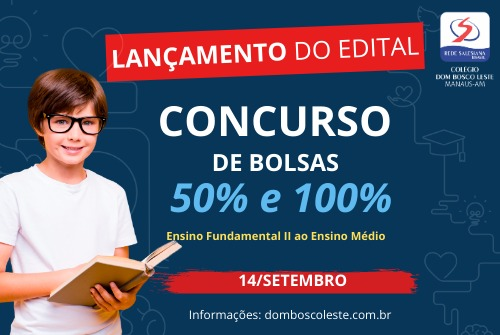
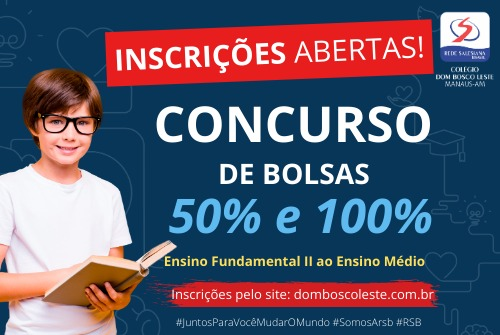
feat: update notice and homepage path

Changed region(s): [[0.0, 0.2985, 0.9, 1.0], [0.0, 0.0299, 0.87, 0.5672], [0.0, 0.6567, 0.12, 0.8358]]

diff --git a/src/pages/WIPNotice/WIPNotice.jsx b/src/pages/WIPNotice/WIPNotice.jsx
@@ -4,6 +4,7 @@ import {
   LinkedinShareButton,
   WhatsappShareButton
 } from 'react-share'
+import MetaTags from 'react-meta-tags';
 import { GrFacebook, GrLinkedin } from 'react-icons/gr'
 import { FaWhatsappSquare } from 'react-icons/fa'
 import { TitleContainer, Grid, BodyNotice } from './styles'
@@ -58,9 +59,15 @@ const WIPNotice = (props) => {
 Realize sua inscrição e encontre a bolsa de estudo que sempre desejou!</p>
             <div>
               Clique
-              <a href="https://drive.google.com/file/d/1xrTLHP4UKZh5QCGJpU25rOjo1dSEVRtX/view?usp=sharing" target="blank">
+              <a href="https://forms.gennera.com.br/view#/formulario/2723299494235674115">
               {' '} aqui
-              </a> para baixar o Edital 2021
+              </a> para se candidatar à Bolsa 2021
+            </div>
+            <div>
+              Clique
+              <a href="https://drive.google.com/file/d/195XhYXu8epJTxLWBAs5x7AtQUtpbeav9/view?usp=sharing" target="blank">
+              {' '} aqui
+              </a> para baixar o Edital
             </div>
             <div style={{ display: "flex" }}>
               <span style={{
@@ -74,7 +81,14 @@ Realize sua inscrição e encontre a bolsa de estudo que sempre desejou!</p>
                   margin: "4px",
                   color: "#4267b2"
                 }}
-                url={window.location.href}>
+                // children={<img src={editalBolsa}/>}
+                quote={"O Colégio Dom Bosco Leste anuncia o Edital de Bolsas 2021."
+                }
+                url={`https://www.domboscoleste.com.br${window.location.pathname}`}>
+                  <MetaTags>
+                    <meta property="og:title" content="O Colégio Dom Bosco Leste anuncia o Edital de Bolsas 2021."></meta>
+                    <meta property="og:image" content={editalBolsa}></meta>
+                  </MetaTags>
                 <GrFacebook size={"2em"}/> 
               </FacebookShareButton>
               <LinkedinShareButton style={{ color: "#0077b5"}}
@@ -82,7 +96,9 @@ Realize sua inscrição e encontre a bolsa de estudo que sempre desejou!</p>
                 <GrLinkedin size={"2em"}/> 
               </LinkedinShareButton>
               <WhatsappShareButton style={{ color: "#075e54"}}
-              url={window.location.href}>
+              url={window.location.href}
+              title={"O Colégio Dom Bosco Leste anuncia o Edital de Bolsas 2021."}
+              >
                 <FaWhatsappSquare size={"2.5em"}/> 
               </WhatsappShareButton>
             </div>

diff --git a/src/App.js b/src/App.js
@@ -9,12 +9,18 @@ import { Header } from './components/Header'
 import { Menu } from './components/Menu'
 import { Footer } from './components/Footer'
 import { WIPNotice } from './pages/WIPNotice'
+import MetaTags from 'react-meta-tags'
+import logoCdbl from './images/logo-cdbl.png'
 
 const history = createBrowserHistory();
 
 function App() {
   return (
     <div className="App">
+      <MetaTags>
+        <meta property="og:title" content="Colégio Dom Bosco Leste"></meta>
+        <meta property="og:image" content={logoCdbl}></meta>
+      </MetaTags>
       <HashRouter basename="/">
         <JsonBoxProvider
             value={{ url: "https://jsonbox.io", id: "box_eab95f446b02b61b6379" }}
